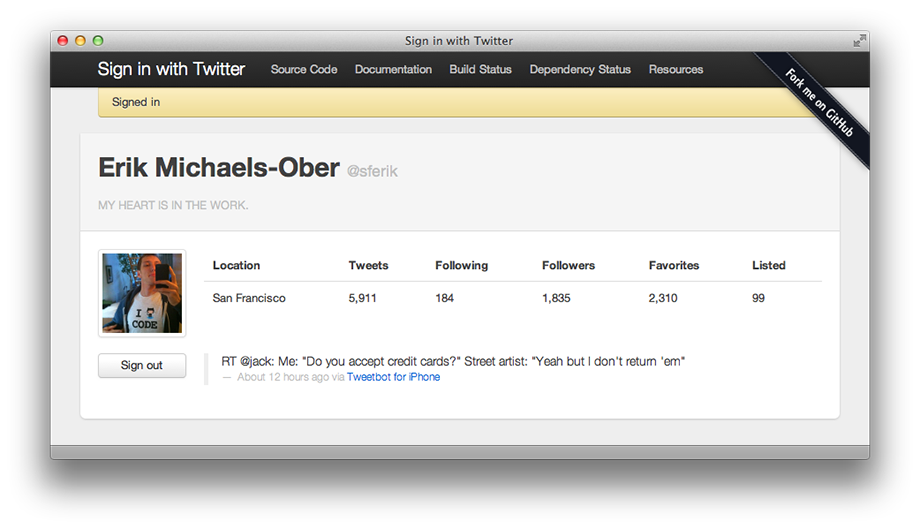
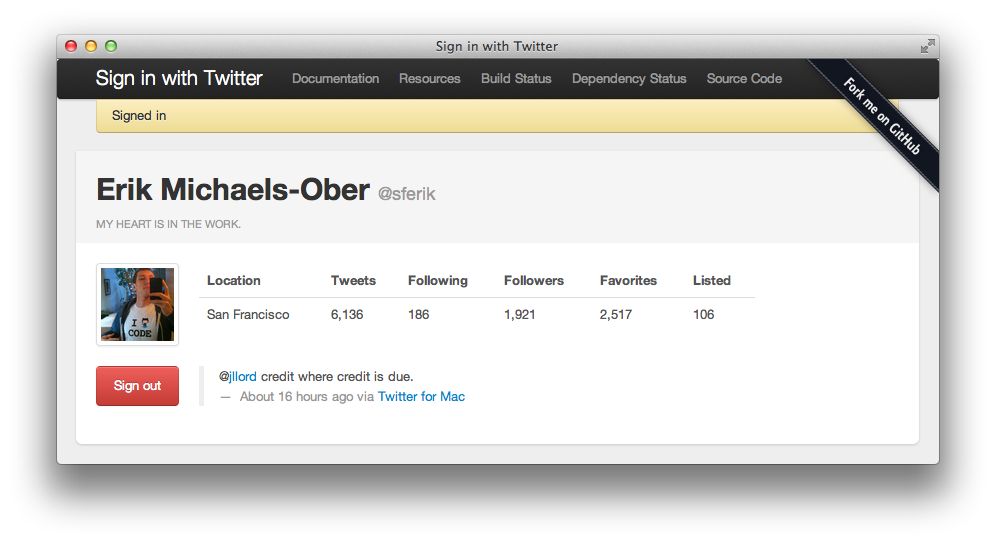
Upgrade to Bootstrap 2.0

diff --git a/app/assets/stylesheets/screen.css b/app/assets/stylesheets/screen.css
@@ -2,21 +2,61 @@
 html, body {
   background-color: #eee;
 }
-body {
-  padding-top: 40px; /* 40px to make the container go all the way to the bottom of the topbar */
-}
+
 table, form {
   margin-bottom: 0;
 }
+
 h6 {
   font-weight: normal;
 }
+
+th {
+  border-top: none;
+}
+
+footer {
+  margin-top: 17px;
+}
+
+#sash {
+  position: absolute;
+  top: 0;
+  right: 0;
+  border: 0;
+  z-index: 10001;
+}
+
+#sign_out {
+  min-width: 83px;
+  min-height: 40px;
+  white-space: nowrap;
+}
+
+.span2{
+  width: 83px;
+}
+
+.page-header h1 {
+  margin-bottom: 8px;
+}
+
+.help-block {
+  margin-top: 9px;
+}
+
+.navbar-static {
+  margin-bottom: 0;
+}
+
 .container > footer p {
   text-align: center; /* center align it with the container */
 }
+
 .container {
-  width: 820px; /* downsize our container to make the content feel a bit tighter and more cohesive. NOTE: this removes two full columns from the grid, meaning you only go to 14 columns and not 16. */
+  width: 803px; /* downsize our container to make the content feel a bit tighter and more cohesive. NOTE: this removes two full columns from the grid, meaning you only go to 14 columns and not 16. */
 }
+
 /* The white background content wrapper */
 .content {
   background-color: #fff;
@@ -29,15 +69,18 @@ h6 {
      -moz-box-shadow: 0 1px 2px rgba(0,0,0,.15);
           box-shadow: 0 1px 2px rgba(0,0,0,.15);
 }
+
 /* Page header tweaks */
 .page-header {
   background-color: #f5f5f5;
   padding: 20px 20px 10px;
   margin: -20px -20px 20px;
 }
-.span2 .media-grid img {
-  width: 90px;
+
+.thumbnails img {
+  width: 73px;
 }
+
 .alert-message {
   -webkit-border-top-left-radius: 0;
       -moz-border-radius-topleft: 0;

diff --git a/app/controllers/sessions_controller.rb b/app/controllers/sessions_controller.rb
@@ -8,7 +8,7 @@ class SessionsController < ApplicationController
 
   def show
     if session['access_token'] && session['access_secret']
-      @user = client.user
+      @user = client.user(:include_entities => true)
     else
       redirect_to failure_path
     end

diff --git a/app/helpers/application_helper.rb b/app/helpers/application_helper.rb
@@ -1,2 +1,3 @@
 module ApplicationHelper
+  include Twitter::Autolink
 end
